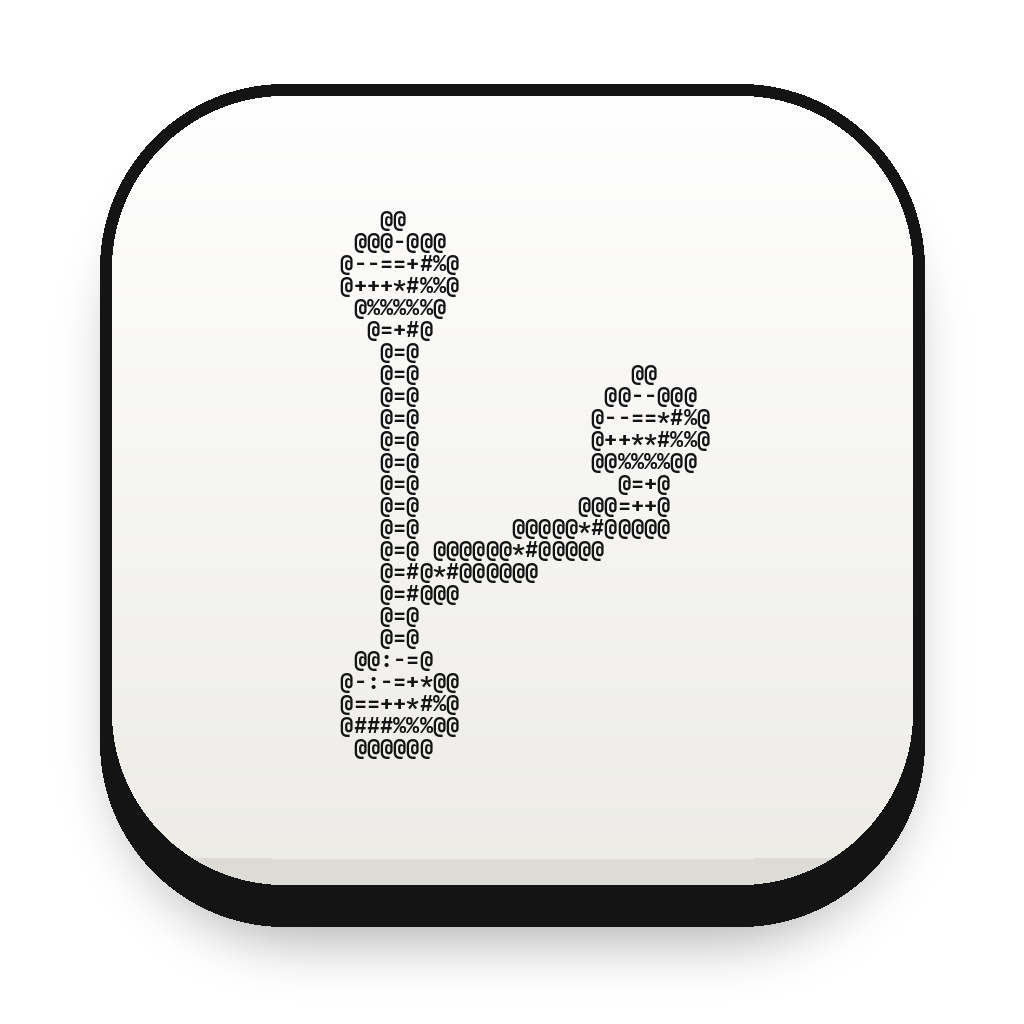
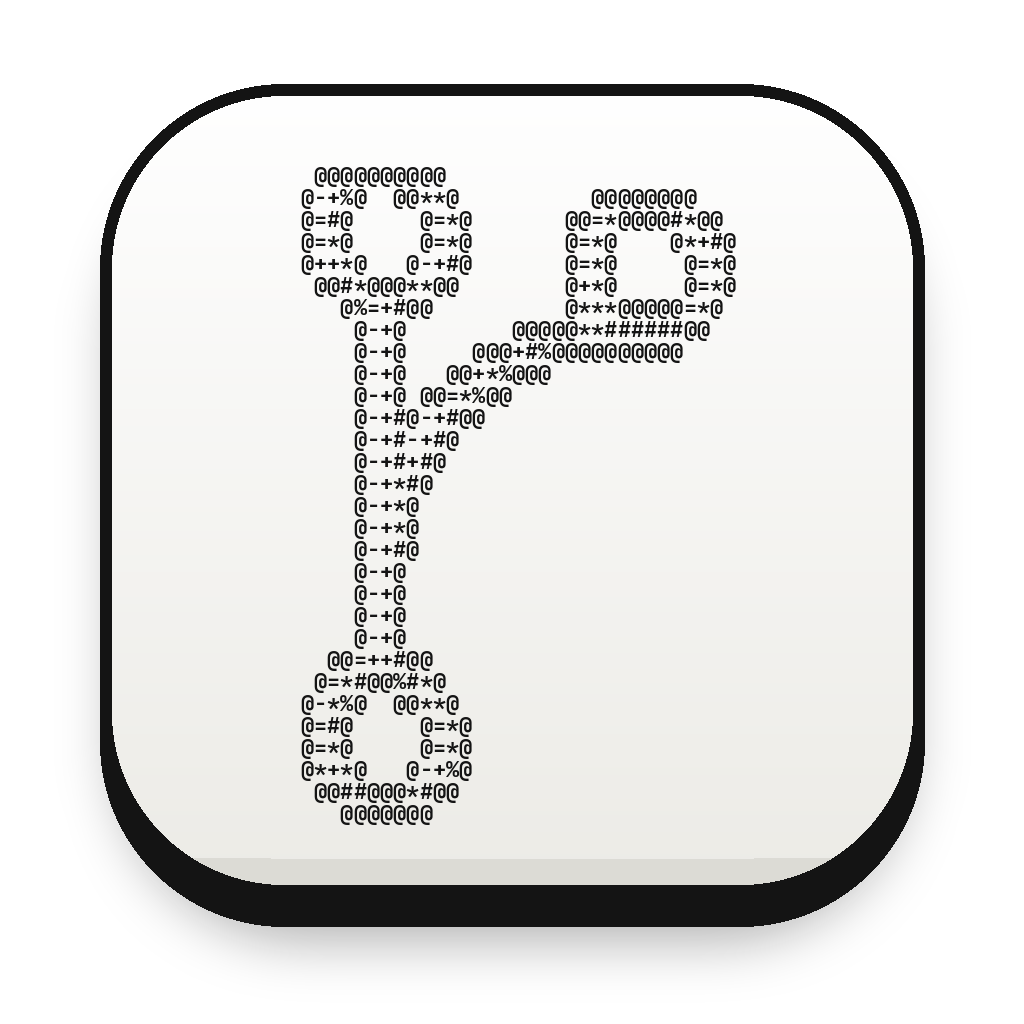
git-branch: rings and an arc so it reads as a branch, not a "P"
The fork node and connector merged into a P shape at icon size. Nodes are
now rings, lines are thicker, and the branch is a clear quarter arc.
Rebuilt the GitHub Desktop PNGs and the git-branch SVGs in both treatments.

Claude-Session: https://claude.ai/code/session_01EdoSnq3zLYDsbtXicYVDha

Changed region(s): [[0.2812, 0.1562, 0.7188, 0.8125]]

diff --git a/src/models.js b/src/models.js
@@ -257,15 +257,15 @@
       return d;
     },
 
-    "git-branch": (x, y, z) =>
-      union(
-        sphere(x + 0.35, y + 0.65, z, 0.17),
-        sphere(x + 0.35, y - 0.62, z, 0.17),
-        sphere(x - 0.42, y - 0.22, z, 0.17),
-        capsule(x, y, z, -0.35, -0.65, -0.35, 0.62, 0.07),
-        capsule(x, y, z, -0.35, -0.3, 0.42, -0.02, 0.07),
-        capsule(x, y, z, 0.42, -0.02, 0.42, 0.22, 0.07),
-      ),
+    // A branch diagram: two commits on a main line, and a branch curving off to a third.
+    // Ring nodes and a gap-free arc keep the fork readable at icon size.
+    "git-branch": (x, y, z) => {
+      const ring = (cx, cy) => torusZ(x - cx, y - cy, z, 0.19, 0.075);
+      const main = capsule(x, y, z, -0.4, -0.56, -0.4, 0.56, 0.08);
+      // Quarter arc from the main line (-0.4, -0.3) up to under the branch node (0.42, 0.52).
+      const arc = intersect(torusZ(x - 0.42, y + 0.3, z, 0.82, 0.08), roundBox(x + 0.01, y - 0.11, z, 0.41, 0.41, 1, 0));
+      return union(ring(-0.4, 0.75), ring(-0.4, -0.75), ring(0.42, 0.71), main, arc);
+    },
 
     clapperboard: (x, y, z) => {
       let board = roundBox(x, y + 0.15, z, 0.72, 0.5, 0.1, 0.06);

diff --git a/icons/README.md b/icons/README.md
@@ -46,7 +46,7 @@ Two treatments of the same models: [`3d/`](3d) (50 × 30 characters, the shading
 | <img src="3d/svg/flower.svg" width="72" alt="A flower, 3D forward"> | <img src="character/svg/flower.svg" width="72" alt="A flower, character forward"> | `flower` | A flower | six round petals around a center | Photos (iPhone) |
 | <img src="3d/svg/gamepad.svg" width="72" alt="A game controller, 3D forward"> | <img src="character/svg/gamepad.svg" width="72" alt="A game controller, character forward"> | `gamepad` | A game controller | a rounded controller with two grips | Discord (Mac) |
 | <img src="3d/svg/gear.svg" width="72" alt="A gear, 3D forward"> | <img src="character/svg/gear.svg" width="72" alt="A gear, character forward"> | `gear` | A gear | a toothed wheel with a hole in the middle | Settings (iPhone) |
-| <img src="3d/svg/git-branch.svg" width="72" alt="A branching path, 3D forward"> | <img src="character/svg/git-branch.svg" width="72" alt="A branching path, character forward"> | `git-branch` | A branching path | nodes joined by a line that forks | GitHub Desktop (Mac) |
+| <img src="3d/svg/git-branch.svg" width="72" alt="A branch diagram, 3D forward"> | <img src="character/svg/git-branch.svg" width="72" alt="A branch diagram, character forward"> | `git-branch` | A branch diagram | two ring nodes on a main line, with an arc curving off to a third | GitHub Desktop (Mac) |
 | <img src="3d/svg/globe.svg" width="72" alt="A globe, 3D forward"> | <img src="character/svg/globe.svg" width="72" alt="A globe, character forward"> | `globe` | A globe | a sphere with an equator and meridian bands | Chrome (iPhone), Google Chrome (Mac) |
 | <img src="3d/svg/handheld-console.svg" width="72" alt="A handheld game console, 3D forward"> | <img src="character/svg/handheld-console.svg" width="72" alt="A handheld game console, character forward"> | `handheld-console` | A handheld game console | a slab with a screen, a cross and buttons | Switch Console (Mac) |
 | <img src="3d/svg/handset.svg" width="72" alt="A telephone handset, 3D forward"> | <img src="character/svg/handset.svg" width="72" alt="A telephone handset, character forward"> | `handset` | A telephone handset | an arched handle between two cups | Phone (iPhone) |
